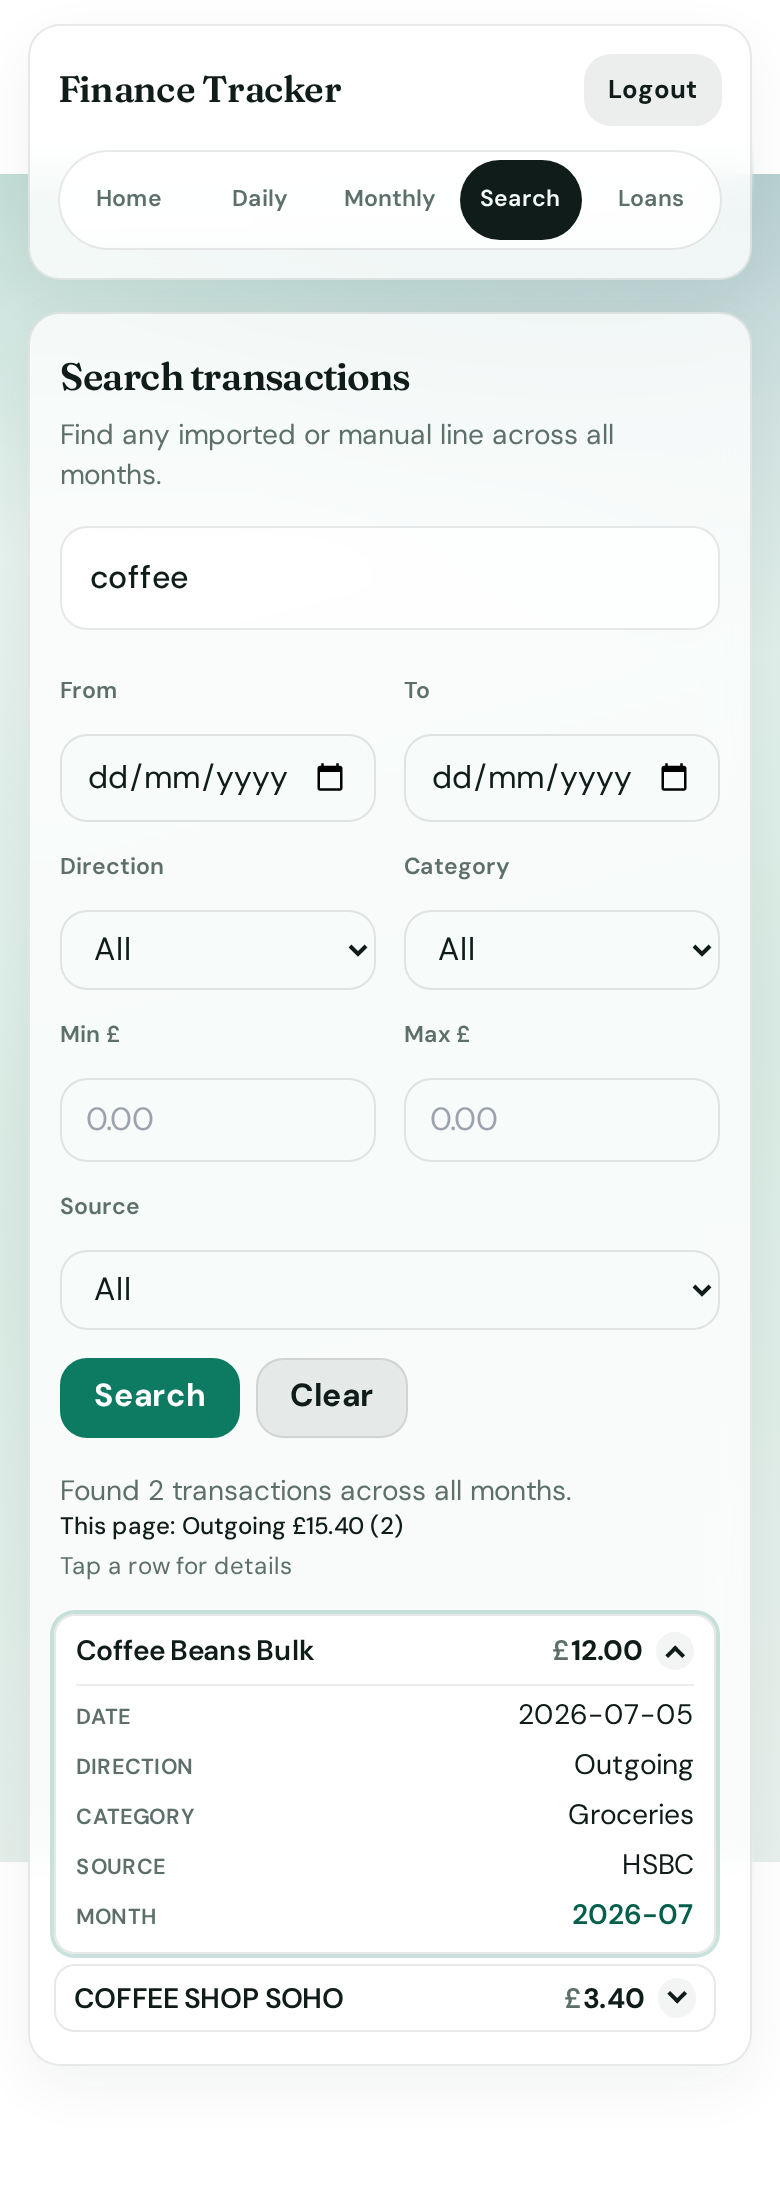
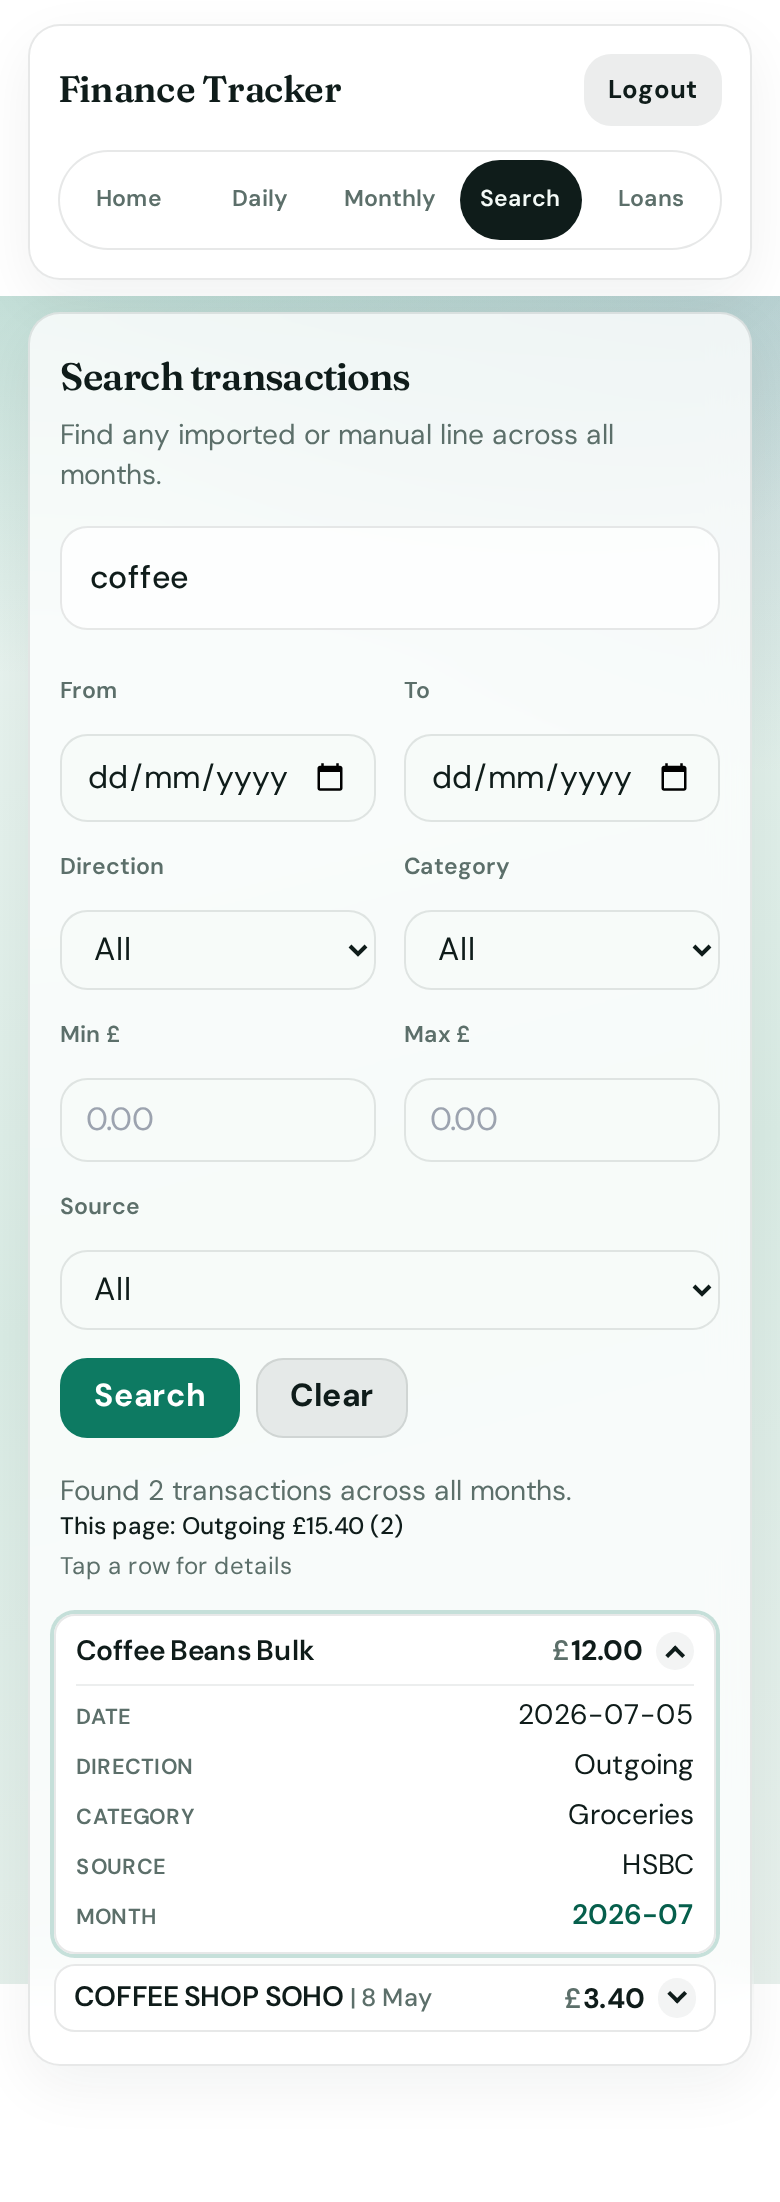
Show short date after ref on collapsed Search rows
Mobile collapsed rows now include a compact en-GB date after the
payment reference (e.g. Coffee | 5 Jul); full ISO date stays in
expanded details.

diff --git a/static/spending_search.js b/static/spending_search.js
@@ -173,6 +173,14 @@
         next.disabled = offset + PAGE_SIZE >= total;
     }
 
+    function formatShortDate(iso) {
+        const raw = String(iso || '').trim().slice(0, 10);
+        if (!/^\d{4}-\d{2}-\d{2}$/.test(raw)) return '';
+        const d = new Date(`${raw}T12:00:00`);
+        if (Number.isNaN(d.getTime())) return '';
+        return d.toLocaleDateString('en-GB', { day: 'numeric', month: 'short' });
+    }
+
     function renderRows(rows) {
         const tbody = $('tx-search-tbody');
         if (!tbody) return;
@@ -200,9 +208,13 @@
                 const amtStr = Number.isFinite(amt) ? amt.toFixed(2) : escapeHtml(tx.amount);
                 const dir = String(tx.direction || '');
                 const desc = escapeHtml(tx.description || '');
+                const shortDate = formatShortDate(tx.date);
+                const shortDateHtml = shortDate
+                    ? `<span class="search-tx-date-short"> | ${escapeHtml(shortDate)}</span>`
+                    : '';
                 return `<tr class="search-tx-row border-t${muted}" style="border-color: var(--border-color);" data-tx-id="${escapeHtml(tx.id || '')}" tabindex="0" aria-expanded="false">
                     <td class="search-tx-date px-3 py-2 whitespace-nowrap" data-label="Date">${escapeHtml(tx.date || '')}</td>
-                    <td class="search-tx-desc px-3 py-2" data-label="Description">${desc}</td>
+                    <td class="search-tx-desc px-3 py-2" data-label="Description"><span class="search-tx-ref">${desc}</span>${shortDateHtml}</td>
                     <td class="search-tx-source px-3 py-2 search-tx-detail" data-label="Source">${src}</td>
                     <td class="search-tx-dir px-3 py-2 whitespace-nowrap search-tx-detail" data-label="Direction">${escapeHtml(dir)}</td>
                     <td class="search-tx-amount px-3 py-2 whitespace-nowrap spending-insight-tx-amount" data-label="Amount (£)">${amtStr}</td>

diff --git a/static/style.css b/static/style.css
@@ -4345,9 +4345,10 @@ body.search-page {
     display: none;
 }
 
-/* Desktop: toggle column is mobile-only chrome */
+/* Desktop: short mobile date chip stays hidden; toggle column too */
 .search-tx-toggle,
-.search-tx-toggle-col {
+.search-tx-toggle-col,
+.search-tx-date-short {
     display: none;
 }
 
@@ -4467,12 +4468,24 @@ body.search-page {
         font-size: 0.9rem;
         font-weight: 600;
         letter-spacing: -0.01em;
-        word-break: break-word;
-        padding-right: 0.15rem;
         line-height: 1.25;
+        padding-right: 0.15rem;
+        min-width: 0;
         white-space: nowrap;
         overflow: hidden;
         text-overflow: ellipsis;
+    }
+
+    body.search-page .search-tx-ref {
+        font-weight: 600;
+    }
+
+    body.search-page .search-tx-date-short {
+        display: inline;
+        font-weight: 500;
+        font-size: 0.78rem;
+        color: var(--muted);
+        white-space: nowrap;
     }
 
     body.search-page .search-tx-amount {
@@ -4493,7 +4506,7 @@ body.search-page {
         color: var(--muted);
     }
 
-    /* Date is a detail field on mobile until the row is expanded. */
+    /* Full ISO date is a detail field on mobile until the row is expanded. */
     body.search-page .search-tx-date {
         display: none;
         grid-area: date;
@@ -4524,6 +4537,10 @@ body.search-page {
         font-weight: 600;
         letter-spacing: 0.03em;
         text-transform: uppercase;
+    }
+
+    body.search-page .search-tx-row--open .search-tx-date-short {
+        display: none;
     }
 
     body.search-page .search-tx-toggle {

diff --git a/tests/test_transaction_search.py b/tests/test_transaction_search.py
@@ -213,6 +213,9 @@ class TestTransactionSearchPage(unittest.TestCase):
         self.assertIn('toggleRow', SEARCH_JS)
         self.assertIn('aria-expanded', SEARCH_JS)
         self.assertIn('data-label', SEARCH_JS)
+        self.assertIn('formatShortDate', SEARCH_JS)
+        self.assertIn('search-tx-date-short', SEARCH_JS)
+        self.assertIn('search-tx-date-short', STYLE)
 
     @mock.patch.object(app_mod, 'save_data')
     @mock.patch.object(app_mod, 'load_data')
